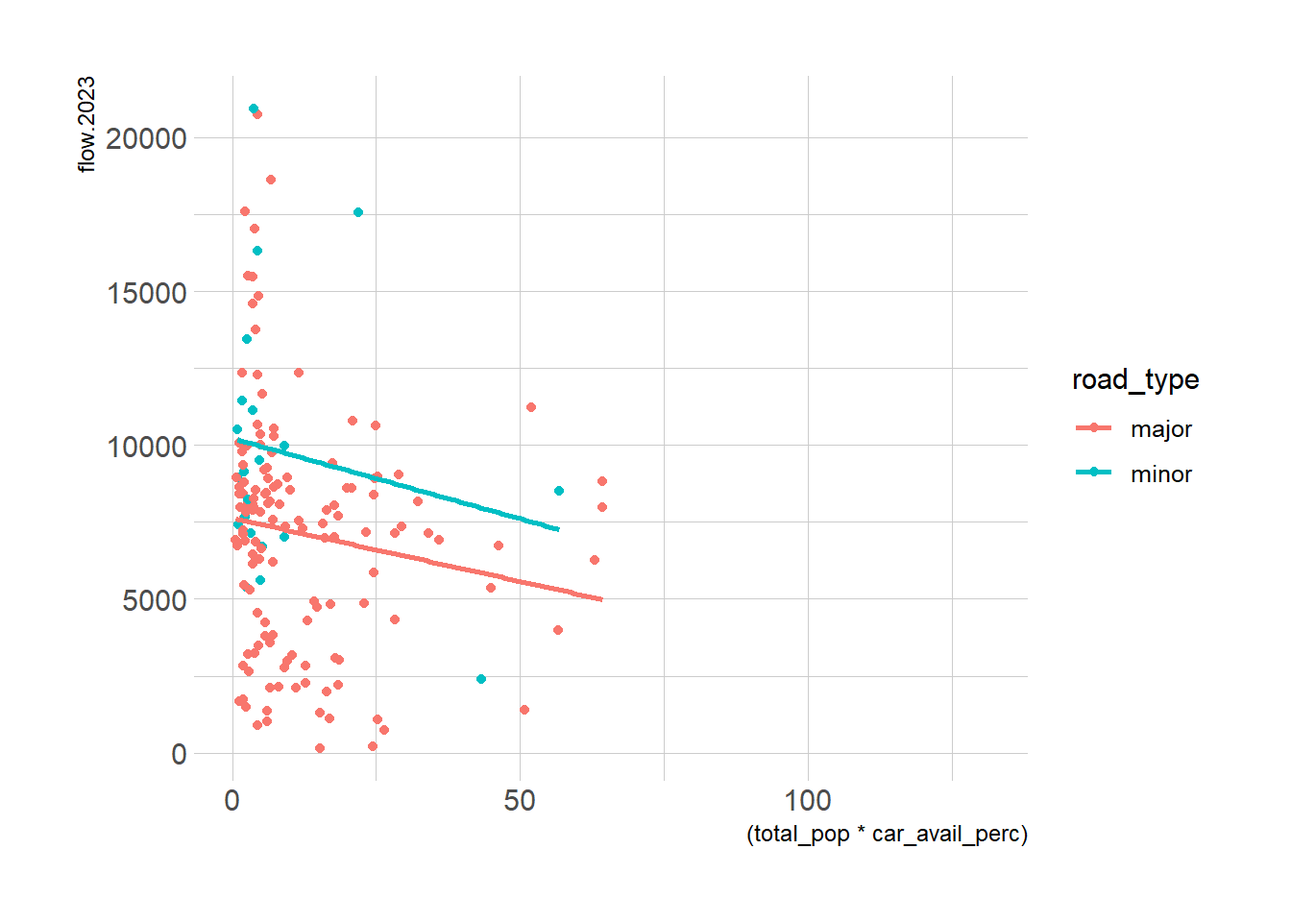
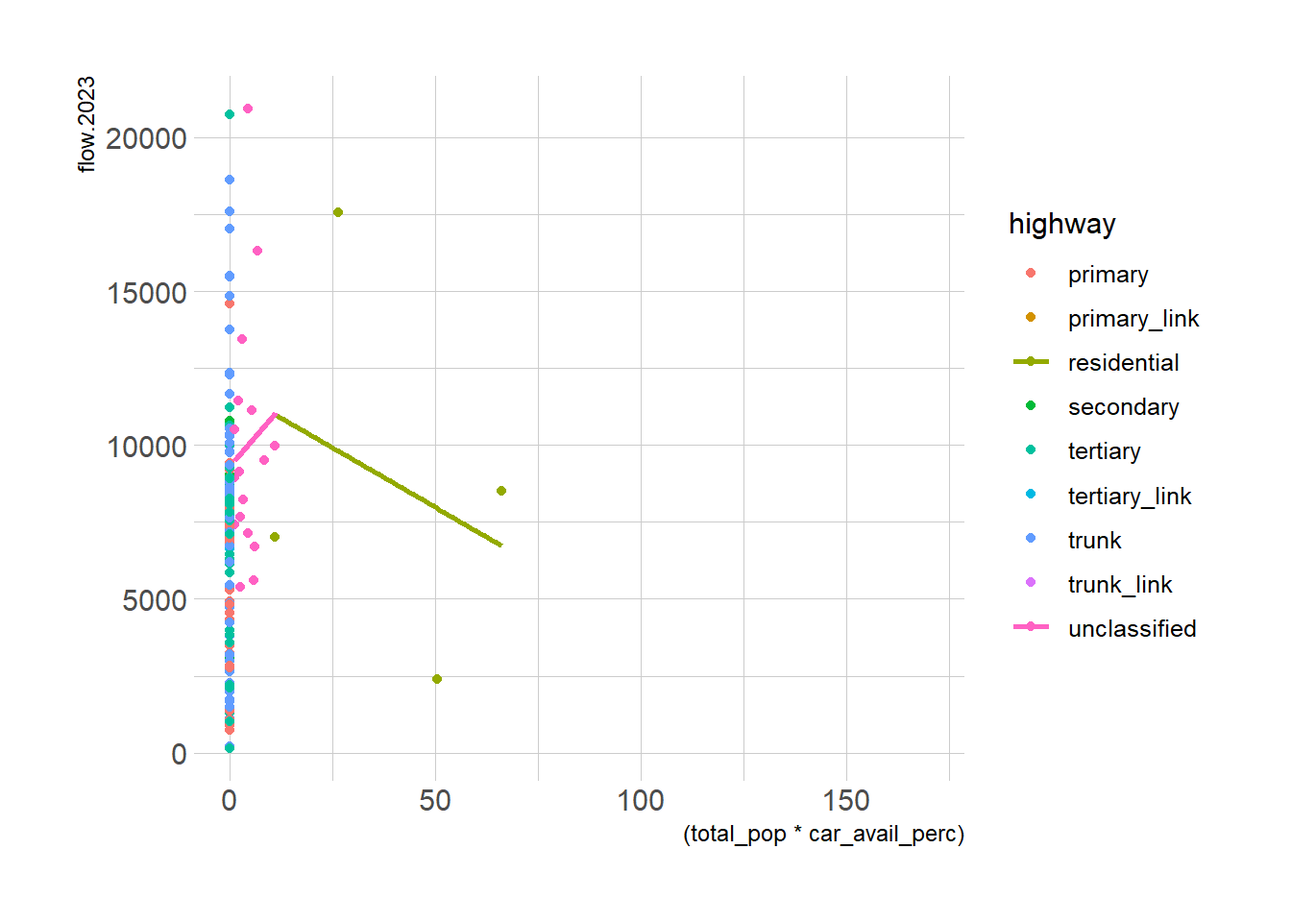
Built site for gh-pages

diff --git a/1D_EDA.html b/1D_EDA.html
@@ -496,7 +496,7 @@ Projected CRS: OSGB36 / British National Grid</code></pre>
 <p>Centrality vs Flows</p>
 <div class="cell">
 <div class="sourceCode cell-code" id="cb16"><pre class="sourceCode r code-with-copy"><code class="sourceCode r"><span id="cb16-1"><a href="#cb16-1" aria-hidden="true" tabindex="-1"></a>model_data <span class="sc">|&gt;</span> </span>
-<span id="cb16-2"><a href="#cb16-2" aria-hidden="true" tabindex="-1"></a>  <span class="fu">ggplot</span>(<span class="fu">aes</span>(<span class="at">x=</span>std.centrality,<span class="at">y=</span>flow<span class="fl">.2023</span>,<span class="at">col=</span>road_type))<span class="sc">+</span></span>
+<span id="cb16-2"><a href="#cb16-2" aria-hidden="true" tabindex="-1"></a>  <span class="fu">ggplot</span>(<span class="fu">aes</span>(<span class="at">x=</span>std.centrality,<span class="at">y=</span>flow<span class="fl">.2023</span>,<span class="at">col=</span>highway))<span class="sc">+</span></span>
 <span id="cb16-3"><a href="#cb16-3" aria-hidden="true" tabindex="-1"></a>  <span class="fu">geom_point</span>()<span class="sc">+</span></span>
 <span id="cb16-4"><a href="#cb16-4" aria-hidden="true" tabindex="-1"></a>  <span class="fu">geom_smooth</span>(<span class="at">method =</span> <span class="st">"lm"</span>,<span class="at">se =</span> F)<span class="sc">+</span></span>
 <span id="cb16-5"><a href="#cb16-5" aria-hidden="true" tabindex="-1"></a>  <span class="fu">theme_ipsum_rc</span>()</span></code><button title="Copy to Clipboard" class="code-copy-button"><i class="bi"></i></button></pre></div>
@@ -550,7 +550,7 @@ font family not found in Windows font database</code></pre>
 <div class="sourceCode cell-code" id="cb23"><pre class="sourceCode r code-with-copy"><code class="sourceCode r"><span id="cb23-1"><a href="#cb23-1" aria-hidden="true" tabindex="-1"></a>model_data <span class="sc">|&gt;</span> </span>
 <span id="cb23-2"><a href="#cb23-2" aria-hidden="true" tabindex="-1"></a>  <span class="fu">ggplot</span>(<span class="fu">aes</span>(<span class="at">x=</span>(total_pop<span class="sc">*</span>car_avail_perc),</span>
 <span id="cb23-3"><a href="#cb23-3" aria-hidden="true" tabindex="-1"></a>             <span class="at">y=</span>flow<span class="fl">.2023</span>,</span>
-<span id="cb23-4"><a href="#cb23-4" aria-hidden="true" tabindex="-1"></a>             <span class="at">col=</span>road_type))<span class="sc">+</span></span>
+<span id="cb23-4"><a href="#cb23-4" aria-hidden="true" tabindex="-1"></a>             <span class="at">col=</span>highway))<span class="sc">+</span></span>
 <span id="cb23-5"><a href="#cb23-5" aria-hidden="true" tabindex="-1"></a>  <span class="fu">geom_point</span>()<span class="sc">+</span></span>
 <span id="cb23-6"><a href="#cb23-6" aria-hidden="true" tabindex="-1"></a>  <span class="fu">geom_smooth</span>(<span class="at">method =</span> <span class="st">"lm"</span>,<span class="at">se =</span> F)<span class="sc">+</span></span>
 <span id="cb23-7"><a href="#cb23-7" aria-hidden="true" tabindex="-1"></a>  <span class="fu">theme_ipsum_rc</span>()</span></code><button title="Copy to Clipboard" class="code-copy-button"><i class="bi"></i></button></pre></div>
@@ -600,7 +600,7 @@ font family not found in Windows font database</code></pre>
 <div class="sourceCode cell-code" id="cb29"><pre class="sourceCode r code-with-copy"><code class="sourceCode r"><span id="cb29-1"><a href="#cb29-1" aria-hidden="true" tabindex="-1"></a>model_data <span class="sc">|&gt;</span> </span>
 <span id="cb29-2"><a href="#cb29-2" aria-hidden="true" tabindex="-1"></a>  <span class="fu">ggplot</span>(<span class="fu">aes</span>(<span class="at">x=</span>(total_emp_pop<span class="sc">*</span>car_avail_perc),</span>
 <span id="cb29-3"><a href="#cb29-3" aria-hidden="true" tabindex="-1"></a>             <span class="at">y=</span>flow<span class="fl">.2023</span>,</span>
-<span id="cb29-4"><a href="#cb29-4" aria-hidden="true" tabindex="-1"></a>             <span class="at">col=</span>road_type))<span class="sc">+</span></span>
+<span id="cb29-4"><a href="#cb29-4" aria-hidden="true" tabindex="-1"></a>             <span class="at">col=</span>highway))<span class="sc">+</span></span>
 <span id="cb29-5"><a href="#cb29-5" aria-hidden="true" tabindex="-1"></a>  <span class="fu">geom_point</span>()<span class="sc">+</span></span>
 <span id="cb29-6"><a href="#cb29-6" aria-hidden="true" tabindex="-1"></a>  <span class="fu">geom_smooth</span>(<span class="at">method =</span> <span class="st">"lm"</span>,<span class="at">se =</span> F)<span class="sc">+</span></span>
 <span id="cb29-7"><a href="#cb29-7" aria-hidden="true" tabindex="-1"></a>  <span class="fu">theme_ipsum_rc</span>()</span></code><button title="Copy to Clipboard" class="code-copy-button"><i class="bi"></i></button></pre></div>
@@ -656,10 +656,14 @@ font family not found in Windows font database</code></pre>
 <span id="cb35-7"><a href="#cb35-7" aria-hidden="true" tabindex="-1"></a>  <span class="fu">geom_smooth</span>(<span class="at">method =</span> <span class="st">"lm"</span>,<span class="at">se =</span> F)<span class="sc">+</span></span>
 <span id="cb35-8"><a href="#cb35-8" aria-hidden="true" tabindex="-1"></a>  <span class="fu">theme_ipsum_rc</span>()</span></code><button title="Copy to Clipboard" class="code-copy-button"><i class="bi"></i></button></pre></div>
 <div class="cell-output cell-output-stderr">
+<pre><code>Warning in scale_x_log10(): log-10 transformation introduced infinite values.
+log-10 transformation introduced infinite values.</code></pre>
+</div>
+<div class="cell-output cell-output-stderr">
 <pre><code>`geom_smooth()` using formula = 'y ~ x'</code></pre>
 </div>
 <div class="cell-output cell-output-stderr">
-<pre><code>Warning: Removed 14918 rows containing non-finite outside the scale range
+<pre><code>Warning: Removed 15055 rows containing non-finite outside the scale range
 (`stat_smooth()`).</code></pre>
 </div>
 <div class="cell-output cell-output-stderr">
@@ -701,9 +705,9 @@ font family not found in Windows font database</code></pre>
 <h3 class="anchored" data-anchor-id="catchment-of-each-node">Catchment of each node</h3>
 <p>Alternatively, population and jobs serviced can be used as as per Selby 2011. Using population and jobs served within specific distances. For this purpose, the catchmets are loaded</p>
 <div class="cell">
-<div class="sourceCode cell-code" id="cb41"><pre class="sourceCode r code-with-copy"><code class="sourceCode r"><span id="cb41-1"><a href="#cb41-1" aria-hidden="true" tabindex="-1"></a>isochrones <span class="ot">&lt;-</span> <span class="fu">read_csv</span>(<span class="st">"03_preprocessing_files/junctions_catchment.csv"</span>)</span></code><button title="Copy to Clipboard" class="code-copy-button"><i class="bi"></i></button></pre></div>
+<div class="sourceCode cell-code" id="cb42"><pre class="sourceCode r code-with-copy"><code class="sourceCode r"><span id="cb42-1"><a href="#cb42-1" aria-hidden="true" tabindex="-1"></a>isochrones <span class="ot">&lt;-</span> <span class="fu">read_csv</span>(<span class="st">"03_preprocessing_files/junctions_catchment.csv"</span>)</span></code><button title="Copy to Clipboard" class="code-copy-button"><i class="bi"></i></button></pre></div>
 <div class="cell-output cell-output-stderr">
-<pre><code>Rows: 4886751 Columns: 5
+<pre><code>Rows: 4886490 Columns: 5
 ── Column specification ────────────────────────────────────────────────────────
 Delimiter: ","
 dbl (5): from, tlim, id, x, y
@@ -714,41 +718,41 @@ dbl (5): from, tlim, id, x, y
 </div>
 <p>This iterates through all origin nodes and calculates the total population and jobs for each time band</p>
 <div class="cell">
-<div class="sourceCode cell-code" id="cb43"><pre class="sourceCode r code-with-copy"><code class="sourceCode r"><span id="cb43-1"><a href="#cb43-1" aria-hidden="true" tabindex="-1"></a>consolidated_catchment <span class="ot">&lt;-</span> isochrones <span class="sc">|&gt;</span></span>
-<span id="cb43-2"><a href="#cb43-2" aria-hidden="true" tabindex="-1"></a>  <span class="fu">mutate</span>(<span class="at">id =</span> <span class="fu">as.character</span>(id)) <span class="sc">|&gt;</span> </span>
-<span id="cb43-3"><a href="#cb43-3" aria-hidden="true" tabindex="-1"></a>  <span class="fu">left_join</span>(model_data <span class="sc">|&gt;</span></span>
-<span id="cb43-4"><a href="#cb43-4" aria-hidden="true" tabindex="-1"></a>              <span class="fu">select</span>(to_id, total_pop, total_emp_pop, wk_pop),</span>
-<span id="cb43-5"><a href="#cb43-5" aria-hidden="true" tabindex="-1"></a>            <span class="at">by=</span><span class="fu">c</span>(<span class="st">"id"</span><span class="ot">=</span><span class="st">"to_id"</span>),</span>
-<span id="cb43-6"><a href="#cb43-6" aria-hidden="true" tabindex="-1"></a>            <span class="at">relationship =</span> <span class="st">"many-to-many"</span>) <span class="sc">|&gt;</span> </span>
-<span id="cb43-7"><a href="#cb43-7" aria-hidden="true" tabindex="-1"></a>  <span class="fu">summarise</span>(<span class="fu">across</span>(<span class="fu">ends_with</span>(<span class="st">"pop"</span>),</span>
-<span id="cb43-8"><a href="#cb43-8" aria-hidden="true" tabindex="-1"></a>                   \(x) <span class="fu">sum</span>(x,<span class="at">na.rm =</span> T)),</span>
-<span id="cb43-9"><a href="#cb43-9" aria-hidden="true" tabindex="-1"></a>            <span class="at">.by =</span> <span class="fu">c</span>(from,tlim)) <span class="sc">|&gt;</span></span>
-<span id="cb43-10"><a href="#cb43-10" aria-hidden="true" tabindex="-1"></a>  <span class="fu">right_join</span>(isochrones <span class="sc">|&gt;</span> </span>
-<span id="cb43-11"><a href="#cb43-11" aria-hidden="true" tabindex="-1"></a>                 <span class="fu">expand</span>(from,tlim),</span>
-<span id="cb43-12"><a href="#cb43-12" aria-hidden="true" tabindex="-1"></a>             <span class="at">by =</span> <span class="fu">c</span>(<span class="st">"from"</span>,<span class="st">"tlim"</span>)) <span class="sc">|&gt;</span> </span>
-<span id="cb43-13"><a href="#cb43-13" aria-hidden="true" tabindex="-1"></a>  <span class="fu">arrange</span>(from,tlim) <span class="sc">|&gt;</span> </span>
-<span id="cb43-14"><a href="#cb43-14" aria-hidden="true" tabindex="-1"></a>  <span class="fu">mutate</span>(<span class="fu">across</span>(<span class="fu">ends_with</span>(<span class="st">"pop"</span>),</span>
-<span id="cb43-15"><a href="#cb43-15" aria-hidden="true" tabindex="-1"></a>                   \(x) <span class="fu">if_else</span>(<span class="fu">is.na</span>(x),<span class="dv">0</span>,x)),</span>
-<span id="cb43-16"><a href="#cb43-16" aria-hidden="true" tabindex="-1"></a>         <span class="fu">across</span>(<span class="fu">ends_with</span>(<span class="st">"pop"</span>),</span>
-<span id="cb43-17"><a href="#cb43-17" aria-hidden="true" tabindex="-1"></a>                   <span class="fu">list</span>(<span class="at">c =</span> \(x) <span class="fu">cumsum</span>(x))),</span>
-<span id="cb43-18"><a href="#cb43-18" aria-hidden="true" tabindex="-1"></a>            <span class="at">.by =</span> from) <span class="sc">|&gt;</span> </span>
-<span id="cb43-19"><a href="#cb43-19" aria-hidden="true" tabindex="-1"></a>  <span class="fu">select</span>(from,tlim,<span class="fu">ends_with</span>(<span class="st">"c"</span>)) <span class="sc">|&gt;</span> </span>
-<span id="cb43-20"><a href="#cb43-20" aria-hidden="true" tabindex="-1"></a>  <span class="fu">pivot_wider</span>(<span class="at">names_from =</span> tlim,<span class="at">values_from =</span> total_pop_c<span class="sc">:</span>wk_pop_c) <span class="sc">|&gt;</span> </span>
-<span id="cb43-21"><a href="#cb43-21" aria-hidden="true" tabindex="-1"></a>  <span class="fu">mutate</span>(<span class="at">from =</span> <span class="fu">as.character</span>(from))</span></code><button title="Copy to Clipboard" class="code-copy-button"><i class="bi"></i></button></pre></div>
+<div class="sourceCode cell-code" id="cb44"><pre class="sourceCode r code-with-copy"><code class="sourceCode r"><span id="cb44-1"><a href="#cb44-1" aria-hidden="true" tabindex="-1"></a>consolidated_catchment <span class="ot">&lt;-</span> isochrones <span class="sc">|&gt;</span></span>
+<span id="cb44-2"><a href="#cb44-2" aria-hidden="true" tabindex="-1"></a>  <span class="fu">mutate</span>(<span class="at">id =</span> <span class="fu">as.character</span>(id)) <span class="sc">|&gt;</span> </span>
+<span id="cb44-3"><a href="#cb44-3" aria-hidden="true" tabindex="-1"></a>  <span class="fu">left_join</span>(model_data <span class="sc">|&gt;</span></span>
+<span id="cb44-4"><a href="#cb44-4" aria-hidden="true" tabindex="-1"></a>              <span class="fu">select</span>(to_id, total_pop, total_emp_pop, wk_pop),</span>
+<span id="cb44-5"><a href="#cb44-5" aria-hidden="true" tabindex="-1"></a>            <span class="at">by=</span><span class="fu">c</span>(<span class="st">"id"</span><span class="ot">=</span><span class="st">"to_id"</span>),</span>
+<span id="cb44-6"><a href="#cb44-6" aria-hidden="true" tabindex="-1"></a>            <span class="at">relationship =</span> <span class="st">"many-to-many"</span>) <span class="sc">|&gt;</span> </span>
+<span id="cb44-7"><a href="#cb44-7" aria-hidden="true" tabindex="-1"></a>  <span class="fu">summarise</span>(<span class="fu">across</span>(<span class="fu">ends_with</span>(<span class="st">"pop"</span>),</span>
+<span id="cb44-8"><a href="#cb44-8" aria-hidden="true" tabindex="-1"></a>                   \(x) <span class="fu">sum</span>(x,<span class="at">na.rm =</span> T)),</span>
+<span id="cb44-9"><a href="#cb44-9" aria-hidden="true" tabindex="-1"></a>            <span class="at">.by =</span> <span class="fu">c</span>(from,tlim)) <span class="sc">|&gt;</span></span>
+<span id="cb44-10"><a href="#cb44-10" aria-hidden="true" tabindex="-1"></a>  <span class="fu">right_join</span>(isochrones <span class="sc">|&gt;</span> </span>
+<span id="cb44-11"><a href="#cb44-11" aria-hidden="true" tabindex="-1"></a>                 <span class="fu">expand</span>(from,tlim),</span>
+<span id="cb44-12"><a href="#cb44-12" aria-hidden="true" tabindex="-1"></a>             <span class="at">by =</span> <span class="fu">c</span>(<span class="st">"from"</span>,<span class="st">"tlim"</span>)) <span class="sc">|&gt;</span> </span>
+<span id="cb44-13"><a href="#cb44-13" aria-hidden="true" tabindex="-1"></a>  <span class="fu">arrange</span>(from,tlim) <span class="sc">|&gt;</span> </span>
+<span id="cb44-14"><a href="#cb44-14" aria-hidden="true" tabindex="-1"></a>  <span class="fu">mutate</span>(<span class="fu">across</span>(<span class="fu">ends_with</span>(<span class="st">"pop"</span>),</span>
+<span id="cb44-15"><a href="#cb44-15" aria-hidden="true" tabindex="-1"></a>                   \(x) <span class="fu">if_else</span>(<span class="fu">is.na</span>(x),<span class="dv">0</span>,x)),</span>
+<span id="cb44-16"><a href="#cb44-16" aria-hidden="true" tabindex="-1"></a>         <span class="fu">across</span>(<span class="fu">ends_with</span>(<span class="st">"pop"</span>),</span>
+<span id="cb44-17"><a href="#cb44-17" aria-hidden="true" tabindex="-1"></a>                   <span class="fu">list</span>(<span class="at">c =</span> \(x) <span class="fu">cumsum</span>(x))),</span>
+<span id="cb44-18"><a href="#cb44-18" aria-hidden="true" tabindex="-1"></a>            <span class="at">.by =</span> from) <span class="sc">|&gt;</span> </span>
+<span id="cb44-19"><a href="#cb44-19" aria-hidden="true" tabindex="-1"></a>  <span class="fu">select</span>(from,tlim,<span class="fu">ends_with</span>(<span class="st">"c"</span>)) <span class="sc">|&gt;</span> </span>
+<span id="cb44-20"><a href="#cb44-20" aria-hidden="true" tabindex="-1"></a>  <span class="fu">pivot_wider</span>(<span class="at">names_from =</span> tlim,<span class="at">values_from =</span> total_pop_c<span class="sc">:</span>wk_pop_c) <span class="sc">|&gt;</span> </span>
+<span id="cb44-21"><a href="#cb44-21" aria-hidden="true" tabindex="-1"></a>  <span class="fu">mutate</span>(<span class="at">from =</span> <span class="fu">as.character</span>(from))</span></code><button title="Copy to Clipboard" class="code-copy-button"><i class="bi"></i></button></pre></div>
 </div>
 <p>Catchment of residents within 2 minutes</p>
 <div class="cell">
-<div class="sourceCode cell-code" id="cb44"><pre class="sourceCode r code-with-copy"><code class="sourceCode r"><span id="cb44-1"><a href="#cb44-1" aria-hidden="true" tabindex="-1"></a><span class="fu">tmap_mode</span>(<span class="st">"plot"</span>)</span></code><button title="Copy to Clipboard" class="code-copy-button"><i class="bi"></i></button></pre></div>
+<div class="sourceCode cell-code" id="cb45"><pre class="sourceCode r code-with-copy"><code class="sourceCode r"><span id="cb45-1"><a href="#cb45-1" aria-hidden="true" tabindex="-1"></a><span class="fu">tmap_mode</span>(<span class="st">"plot"</span>)</span></code><button title="Copy to Clipboard" class="code-copy-button"><i class="bi"></i></button></pre></div>
 <div class="cell-output cell-output-stderr">
 <pre><code>tmap mode set to plotting</code></pre>
 </div>
-<div class="sourceCode cell-code" id="cb46"><pre class="sourceCode r code-with-copy"><code class="sourceCode r"><span id="cb46-1"><a href="#cb46-1" aria-hidden="true" tabindex="-1"></a><span class="fu">tm_shape</span>(model_data_sf)<span class="sc">+</span></span>
-<span id="cb46-2"><a href="#cb46-2" aria-hidden="true" tabindex="-1"></a>  <span class="fu">tm_lines</span>(<span class="st">"skyblue"</span>,<span class="at">lwd =</span> <span class="fl">0.7</span>)<span class="sc">+</span></span>
-<span id="cb46-3"><a href="#cb46-3" aria-hidden="true" tabindex="-1"></a>  <span class="fu">tm_shape</span>(model_data_sf <span class="sc">|&gt;</span></span>
-<span id="cb46-4"><a href="#cb46-4" aria-hidden="true" tabindex="-1"></a>  <span class="fu">left_join</span>(consolidated_catchment,</span>
-<span id="cb46-5"><a href="#cb46-5" aria-hidden="true" tabindex="-1"></a>            <span class="at">by =</span> <span class="fu">c</span>(<span class="st">"from_id"</span><span class="ot">=</span><span class="st">"from"</span>)) <span class="sc">|&gt;</span> </span>
-<span id="cb46-6"><a href="#cb46-6" aria-hidden="true" tabindex="-1"></a>  <span class="fu">filter</span>(<span class="sc">!</span><span class="fu">is.na</span>(total_pop_c_2)))<span class="sc">+</span></span>
-<span id="cb46-7"><a href="#cb46-7" aria-hidden="true" tabindex="-1"></a>  <span class="fu">tm_lines</span>(<span class="st">"total_pop_c_2"</span>,<span class="at">lwd =</span> <span class="dv">2</span>)</span></code><button title="Copy to Clipboard" class="code-copy-button"><i class="bi"></i></button></pre></div>
+<div class="sourceCode cell-code" id="cb47"><pre class="sourceCode r code-with-copy"><code class="sourceCode r"><span id="cb47-1"><a href="#cb47-1" aria-hidden="true" tabindex="-1"></a><span class="fu">tm_shape</span>(model_data_sf)<span class="sc">+</span></span>
+<span id="cb47-2"><a href="#cb47-2" aria-hidden="true" tabindex="-1"></a>  <span class="fu">tm_lines</span>(<span class="st">"skyblue"</span>,<span class="at">lwd =</span> <span class="fl">0.7</span>)<span class="sc">+</span></span>
+<span id="cb47-3"><a href="#cb47-3" aria-hidden="true" tabindex="-1"></a>  <span class="fu">tm_shape</span>(model_data_sf <span class="sc">|&gt;</span></span>
+<span id="cb47-4"><a href="#cb47-4" aria-hidden="true" tabindex="-1"></a>  <span class="fu">left_join</span>(consolidated_catchment,</span>
+<span id="cb47-5"><a href="#cb47-5" aria-hidden="true" tabindex="-1"></a>            <span class="at">by =</span> <span class="fu">c</span>(<span class="st">"from_id"</span><span class="ot">=</span><span class="st">"from"</span>)) <span class="sc">|&gt;</span> </span>
+<span id="cb47-6"><a href="#cb47-6" aria-hidden="true" tabindex="-1"></a>  <span class="fu">filter</span>(<span class="sc">!</span><span class="fu">is.na</span>(total_pop_c_2)))<span class="sc">+</span></span>
+<span id="cb47-7"><a href="#cb47-7" aria-hidden="true" tabindex="-1"></a>  <span class="fu">tm_lines</span>(<span class="st">"total_pop_c_2"</span>,<span class="at">lwd =</span> <span class="dv">2</span>)</span></code><button title="Copy to Clipboard" class="code-copy-button"><i class="bi"></i></button></pre></div>
 <div class="cell-output-display">
 <div>
 <figure class="figure">
@@ -759,13 +763,13 @@ dbl (5): from, tlim, id, x, y
 </div>
 <p>Catchment of employed residents within 2 minutes</p>
 <div class="cell">
-<div class="sourceCode cell-code" id="cb47"><pre class="sourceCode r code-with-copy"><code class="sourceCode r"><span id="cb47-1"><a href="#cb47-1" aria-hidden="true" tabindex="-1"></a><span class="fu">tm_shape</span>(model_data_sf)<span class="sc">+</span></span>
-<span id="cb47-2"><a href="#cb47-2" aria-hidden="true" tabindex="-1"></a>  <span class="fu">tm_lines</span>(<span class="st">"skyblue"</span>,<span class="at">lwd =</span> <span class="fl">0.7</span>)<span class="sc">+</span></span>
-<span id="cb47-3"><a href="#cb47-3" aria-hidden="true" tabindex="-1"></a>  <span class="fu">tm_shape</span>(model_data_sf <span class="sc">|&gt;</span></span>
-<span id="cb47-4"><a href="#cb47-4" aria-hidden="true" tabindex="-1"></a>  <span class="fu">left_join</span>(consolidated_catchment,</span>
-<span id="cb47-5"><a href="#cb47-5" aria-hidden="true" tabindex="-1"></a>            <span class="at">by =</span> <span class="fu">c</span>(<span class="st">"from_id"</span><span class="ot">=</span><span class="st">"from"</span>)) <span class="sc">|&gt;</span> </span>
-<span id="cb47-6"><a href="#cb47-6" aria-hidden="true" tabindex="-1"></a>  <span class="fu">filter</span>(<span class="sc">!</span><span class="fu">is.na</span>(total_emp_pop_c_2)))<span class="sc">+</span></span>
-<span id="cb47-7"><a href="#cb47-7" aria-hidden="true" tabindex="-1"></a>  <span class="fu">tm_lines</span>(<span class="st">"wk_pop_c_2"</span>,<span class="at">lwd =</span> <span class="dv">2</span>)</span></code><button title="Copy to Clipboard" class="code-copy-button"><i class="bi"></i></button></pre></div>
+<div class="sourceCode cell-code" id="cb48"><pre class="sourceCode r code-with-copy"><code class="sourceCode r"><span id="cb48-1"><a href="#cb48-1" aria-hidden="true" tabindex="-1"></a><span class="fu">tm_shape</span>(model_data_sf)<span class="sc">+</span></span>
+<span id="cb48-2"><a href="#cb48-2" aria-hidden="true" tabindex="-1"></a>  <span class="fu">tm_lines</span>(<span class="st">"skyblue"</span>,<span class="at">lwd =</span> <span class="fl">0.7</span>)<span class="sc">+</span></span>
+<span id="cb48-3"><a href="#cb48-3" aria-hidden="true" tabindex="-1"></a>  <span class="fu">tm_shape</span>(model_data_sf <span class="sc">|&gt;</span></span>
+<span id="cb48-4"><a href="#cb48-4" aria-hidden="true" tabindex="-1"></a>  <span class="fu">left_join</span>(consolidated_catchment,</span>
+<span id="cb48-5"><a href="#cb48-5" aria-hidden="true" tabindex="-1"></a>            <span class="at">by =</span> <span class="fu">c</span>(<span class="st">"from_id"</span><span class="ot">=</span><span class="st">"from"</span>)) <span class="sc">|&gt;</span> </span>
+<span id="cb48-6"><a href="#cb48-6" aria-hidden="true" tabindex="-1"></a>  <span class="fu">filter</span>(<span class="sc">!</span><span class="fu">is.na</span>(total_emp_pop_c_2)))<span class="sc">+</span></span>
+<span id="cb48-7"><a href="#cb48-7" aria-hidden="true" tabindex="-1"></a>  <span class="fu">tm_lines</span>(<span class="st">"total_emp_pop_c_2"</span>,<span class="at">lwd =</span> <span class="dv">2</span>)</span></code><button title="Copy to Clipboard" class="code-copy-button"><i class="bi"></i></button></pre></div>
 <div class="cell-output-display">
 <div>
 <figure class="figure">
@@ -776,13 +780,13 @@ dbl (5): from, tlim, id, x, y
 </div>
 <p>Catchment of usual workplace population</p>
 <div class="cell">
-<div class="sourceCode cell-code" id="cb48"><pre class="sourceCode r code-with-copy"><code class="sourceCode r"><span id="cb48-1"><a href="#cb48-1" aria-hidden="true" tabindex="-1"></a><span class="fu">tm_shape</span>(model_data_sf)<span class="sc">+</span></span>
-<span id="cb48-2"><a href="#cb48-2" aria-hidden="true" tabindex="-1"></a>  <span class="fu">tm_lines</span>(<span class="st">"skyblue"</span>,<span class="at">lwd =</span> <span class="fl">0.7</span>)<span class="sc">+</span></span>
-<span id="cb48-3"><a href="#cb48-3" aria-hidden="true" tabindex="-1"></a>  <span class="fu">tm_shape</span>(model_data_sf <span class="sc">|&gt;</span></span>
-<span id="cb48-4"><a href="#cb48-4" aria-hidden="true" tabindex="-1"></a>  <span class="fu">left_join</span>(consolidated_catchment,</span>
-<span id="cb48-5"><a href="#cb48-5" aria-hidden="true" tabindex="-1"></a>            <span class="at">by =</span> <span class="fu">c</span>(<span class="st">"from_id"</span><span class="ot">=</span><span class="st">"from"</span>)) <span class="sc">|&gt;</span> </span>
-<span id="cb48-6"><a href="#cb48-6" aria-hidden="true" tabindex="-1"></a>  <span class="fu">filter</span>(<span class="sc">!</span><span class="fu">is.na</span>(wk_pop_c_2)))<span class="sc">+</span></span>
-<span id="cb48-7"><a href="#cb48-7" aria-hidden="true" tabindex="-1"></a>  <span class="fu">tm_lines</span>(<span class="st">"wk_pop_c_2"</span>,<span class="at">lwd =</span> <span class="dv">2</span>)</span></code><button title="Copy to Clipboard" class="code-copy-button"><i class="bi"></i></button></pre></div>
+<div class="sourceCode cell-code" id="cb49"><pre class="sourceCode r code-with-copy"><code class="sourceCode r"><span id="cb49-1"><a href="#cb49-1" aria-hidden="true" tabindex="-1"></a><span class="fu">tm_shape</span>(model_data_sf)<span class="sc">+</span></span>
+<span id="cb49-2"><a href="#cb49-2" aria-hidden="true" tabindex="-1"></a>  <span class="fu">tm_lines</span>(<span class="st">"skyblue"</span>,<span class="at">lwd =</span> <span class="fl">0.7</span>)<span class="sc">+</span></span>
+<span id="cb49-3"><a href="#cb49-3" aria-hidden="true" tabindex="-1"></a>  <span class="fu">tm_shape</span>(model_data_sf <span class="sc">|&gt;</span></span>
+<span id="cb49-4"><a href="#cb49-4" aria-hidden="true" tabindex="-1"></a>  <span class="fu">left_join</span>(consolidated_catchment,</span>
+<span id="cb49-5"><a href="#cb49-5" aria-hidden="true" tabindex="-1"></a>            <span class="at">by =</span> <span class="fu">c</span>(<span class="st">"from_id"</span><span class="ot">=</span><span class="st">"from"</span>)) <span class="sc">|&gt;</span> </span>
+<span id="cb49-6"><a href="#cb49-6" aria-hidden="true" tabindex="-1"></a>  <span class="fu">filter</span>(<span class="sc">!</span><span class="fu">is.na</span>(wk_pop_c_2)))<span class="sc">+</span></span>
+<span id="cb49-7"><a href="#cb49-7" aria-hidden="true" tabindex="-1"></a>  <span class="fu">tm_lines</span>(<span class="st">"wk_pop_c_2"</span>,<span class="at">lwd =</span> <span class="dv">2</span>)</span></code><button title="Copy to Clipboard" class="code-copy-button"><i class="bi"></i></button></pre></div>
 <div class="cell-output-display">
 <div>
 <figure class="figure">
@@ -797,29 +801,29 @@ dbl (5): from, tlim, id, x, y
 <h2 class="anchored" data-anchor-id="consolidating-the-dataset-for-model-fitting">Consolidating the dataset for model fitting</h2>
 <p>Joining the catchment to the <code>model_data</code> dataset</p>
 <div class="cell">
-<div class="sourceCode cell-code" id="cb49"><pre class="sourceCode r code-with-copy"><code class="sourceCode r"><span id="cb49-1"><a href="#cb49-1" aria-hidden="true" tabindex="-1"></a>model_data_expanded <span class="ot">&lt;-</span> model_data_sf <span class="sc">|&gt;</span></span>
-<span id="cb49-2"><a href="#cb49-2" aria-hidden="true" tabindex="-1"></a>  <span class="fu">left_join</span>(consolidated_catchment,</span>
-<span id="cb49-3"><a href="#cb49-3" aria-hidden="true" tabindex="-1"></a>            <span class="at">by =</span> <span class="fu">c</span>(<span class="st">"from_id"</span><span class="ot">=</span><span class="st">"from"</span>)) <span class="sc">|&gt;</span></span>
-<span id="cb49-4"><a href="#cb49-4" aria-hidden="true" tabindex="-1"></a>  <span class="fu">select</span>(edge_id,</span>
-<span id="cb49-5"><a href="#cb49-5" aria-hidden="true" tabindex="-1"></a>         flow<span class="fl">.2022</span>,</span>
-<span id="cb49-6"><a href="#cb49-6" aria-hidden="true" tabindex="-1"></a>         flow<span class="fl">.2023</span>,</span>
-<span id="cb49-7"><a href="#cb49-7" aria-hidden="true" tabindex="-1"></a>         centrality,</span>
-<span id="cb49-8"><a href="#cb49-8" aria-hidden="true" tabindex="-1"></a>         car_avail_perc,</span>
-<span id="cb49-9"><a href="#cb49-9" aria-hidden="true" tabindex="-1"></a>         total_pop_c_1<span class="sc">:</span>wk_pop_c_5,</span>
-<span id="cb49-10"><a href="#cb49-10" aria-hidden="true" tabindex="-1"></a>         road_density) <span class="sc">|&gt;</span></span>
-<span id="cb49-11"><a href="#cb49-11" aria-hidden="true" tabindex="-1"></a>  <span class="fu">mutate</span>(<span class="fu">across</span>(<span class="fu">contains</span>(<span class="st">"pop"</span>),\(x) x<span class="sc">/</span><span class="fl">1e3</span>),</span>
-<span id="cb49-12"><a href="#cb49-12" aria-hidden="true" tabindex="-1"></a>         <span class="at">centrality =</span> centrality<span class="sc">/</span><span class="fl">1e6</span>,</span>
-<span id="cb49-13"><a href="#cb49-13" aria-hidden="true" tabindex="-1"></a>         <span class="fu">across</span>(<span class="fu">starts_with</span>(<span class="st">"flow."</span>),\(x) <span class="fu">round</span>(x) <span class="sc">|&gt;</span> <span class="fu">as.integer</span>()))</span></code><button title="Copy to Clipboard" class="code-copy-button"><i class="bi"></i></button></pre></div>
+<div class="sourceCode cell-code" id="cb50"><pre class="sourceCode r code-with-copy"><code class="sourceCode r"><span id="cb50-1"><a href="#cb50-1" aria-hidden="true" tabindex="-1"></a>model_data_expanded <span class="ot">&lt;-</span> model_data_sf <span class="sc">|&gt;</span></span>
+<span id="cb50-2"><a href="#cb50-2" aria-hidden="true" tabindex="-1"></a>  <span class="fu">left_join</span>(consolidated_catchment,</span>
+<span id="cb50-3"><a href="#cb50-3" aria-hidden="true" tabindex="-1"></a>            <span class="at">by =</span> <span class="fu">c</span>(<span class="st">"from_id"</span><span class="ot">=</span><span class="st">"from"</span>)) <span class="sc">|&gt;</span></span>
+<span id="cb50-4"><a href="#cb50-4" aria-hidden="true" tabindex="-1"></a>  <span class="co"># select(edge_id,</span></span>
+<span id="cb50-5"><a href="#cb50-5" aria-hidden="true" tabindex="-1"></a>  <span class="co">#        flow.2022,</span></span>
+<span id="cb50-6"><a href="#cb50-6" aria-hidden="true" tabindex="-1"></a>  <span class="co">#        flow.2023,</span></span>
+<span id="cb50-7"><a href="#cb50-7" aria-hidden="true" tabindex="-1"></a>  <span class="co">#        centrality,</span></span>
+<span id="cb50-8"><a href="#cb50-8" aria-hidden="true" tabindex="-1"></a>  <span class="co">#        car_avail_perc,</span></span>
+<span id="cb50-9"><a href="#cb50-9" aria-hidden="true" tabindex="-1"></a>  <span class="co">#        total_pop_c_1:wk_pop_c_5,</span></span>
+<span id="cb50-10"><a href="#cb50-10" aria-hidden="true" tabindex="-1"></a>  <span class="co">#        road_density) |&gt;</span></span>
+<span id="cb50-11"><a href="#cb50-11" aria-hidden="true" tabindex="-1"></a>  <span class="fu">mutate</span>(<span class="fu">across</span>(<span class="fu">contains</span>(<span class="st">"pop"</span>),\(x) x<span class="sc">/</span><span class="fl">1e3</span>),</span>
+<span id="cb50-12"><a href="#cb50-12" aria-hidden="true" tabindex="-1"></a>         <span class="at">centrality =</span> centrality,</span>
+<span id="cb50-13"><a href="#cb50-13" aria-hidden="true" tabindex="-1"></a>         <span class="fu">across</span>(<span class="fu">starts_with</span>(<span class="st">"flow."</span>),\(x) <span class="fu">round</span>(x) <span class="sc">|&gt;</span> <span class="fu">as.integer</span>()))</span></code><button title="Copy to Clipboard" class="code-copy-button"><i class="bi"></i></button></pre></div>
 </div>
 <section id="exploring-interactions-among-the-variables-in-the-dataset" class="level3">
 <h3 class="anchored" data-anchor-id="exploring-interactions-among-the-variables-in-the-dataset">Exploring interactions among the variables in the dataset</h3>
 <div class="cell">
-<div class="sourceCode cell-code" id="cb50"><pre class="sourceCode r code-with-copy"><code class="sourceCode r"><span id="cb50-1"><a href="#cb50-1" aria-hidden="true" tabindex="-1"></a>model_data_expanded <span class="sc">|&gt;</span></span>
-<span id="cb50-2"><a href="#cb50-2" aria-hidden="true" tabindex="-1"></a>  <span class="fu">st_drop_geometry</span>() <span class="sc">|&gt;</span> </span>
-<span id="cb50-3"><a href="#cb50-3" aria-hidden="true" tabindex="-1"></a>  <span class="fu">select</span>(flow<span class="fl">.2023</span>, centrality, total_pop_c_2,total_emp_pop_c_2, wk_pop_c_2) <span class="sc">|&gt;</span></span>
-<span id="cb50-4"><a href="#cb50-4" aria-hidden="true" tabindex="-1"></a>  <span class="fu">drop_na</span>(flow<span class="fl">.2023</span>, centrality, total_pop_c_2,total_emp_pop_c_2, wk_pop_c_2) <span class="sc">|&gt;</span></span>
-<span id="cb50-5"><a href="#cb50-5" aria-hidden="true" tabindex="-1"></a>  <span class="co"># mutate(across(everything(),log)) |&gt; </span></span>
-<span id="cb50-6"><a href="#cb50-6" aria-hidden="true" tabindex="-1"></a>  GGally<span class="sc">::</span><span class="fu">ggpairs</span>()</span></code><button title="Copy to Clipboard" class="code-copy-button"><i class="bi"></i></button></pre></div>
+<div class="sourceCode cell-code" id="cb51"><pre class="sourceCode r code-with-copy"><code class="sourceCode r"><span id="cb51-1"><a href="#cb51-1" aria-hidden="true" tabindex="-1"></a>model_data_expanded <span class="sc">|&gt;</span></span>
+<span id="cb51-2"><a href="#cb51-2" aria-hidden="true" tabindex="-1"></a>  <span class="fu">st_drop_geometry</span>() <span class="sc">|&gt;</span> </span>
+<span id="cb51-3"><a href="#cb51-3" aria-hidden="true" tabindex="-1"></a>  <span class="fu">select</span>(flow<span class="fl">.2023</span>, std.centrality, total_pop_c_2,total_emp_pop_c_2, wk_pop_c_2) <span class="sc">|&gt;</span></span>
+<span id="cb51-4"><a href="#cb51-4" aria-hidden="true" tabindex="-1"></a>  <span class="fu">drop_na</span>(flow<span class="fl">.2023</span>, std.centrality, total_pop_c_2,total_emp_pop_c_2, wk_pop_c_2) <span class="sc">|&gt;</span></span>
+<span id="cb51-5"><a href="#cb51-5" aria-hidden="true" tabindex="-1"></a>  <span class="co"># mutate(across(everything(),log)) |&gt; </span></span>
+<span id="cb51-6"><a href="#cb51-6" aria-hidden="true" tabindex="-1"></a>  GGally<span class="sc">::</span><span class="fu">ggpairs</span>()</span></code><button title="Copy to Clipboard" class="code-copy-button"><i class="bi"></i></button></pre></div>
 <div class="cell-output cell-output-stderr">
 <pre><code>Registered S3 method overwritten by 'GGally':
   method from   
@@ -838,12 +842,12 @@ dbl (5): from, tlim, id, x, y
 <section id="saving-data" class="level2">
 <h2 class="anchored" data-anchor-id="saving-data">Saving data</h2>
 <div class="cell">
-<div class="sourceCode cell-code" id="cb52"><pre class="sourceCode r code-with-copy"><code class="sourceCode r"><span id="cb52-1"><a href="#cb52-1" aria-hidden="true" tabindex="-1"></a><span class="fu">st_write</span>(model_data_expanded,<span class="st">"03_preprocessing_files/model_data.gpkg"</span>,<span class="at">delete_dsn =</span> T) </span></code><button title="Copy to Clipboard" class="code-copy-button"><i class="bi"></i></button></pre></div>
+<div class="sourceCode cell-code" id="cb53"><pre class="sourceCode r code-with-copy"><code class="sourceCode r"><span id="cb53-1"><a href="#cb53-1" aria-hidden="true" tabindex="-1"></a><span class="fu">st_write</span>(model_data_expanded,<span class="st">"03_preprocessing_files/model_data.gpkg"</span>,<span class="at">delete_dsn =</span> T) </span></code><button title="Copy to Clipboard" class="code-copy-button"><i class="bi"></i></button></pre></div>
 <div class="cell-output cell-output-stdout">
 <pre><code>Deleting source `03_preprocessing_files/model_data.gpkg' using driver `GPKG'
 Writing layer `model_data' to data source 
   `03_preprocessing_files/model_data.gpkg' using driver `GPKG'
-Writing 15076 features with 21 fields and geometry type Line String.</code></pre>
+Writing 15076 features with 54 fields and geometry type Line String.</code></pre>
 </div>
 </div>
 

diff --git a/1C_Road_network.html b/1C_Road_network.html
@@ -662,12 +662,13 @@ Projected CRS: OSGB36 / British National Grid</code></pre>
 <p>It will be assumed that the length of each road will be proportional to the population served in each LSOA, i.e.&nbsp;if there are two roads in an LSOA, one with 750 m and the other with 250 m, their distribution will be assumed as 75% and 25% respectively.</p>
 <div class="cell">
 <div class="sourceCode cell-code" id="cb34"><pre class="sourceCode r code-with-copy"><code class="sourceCode r"><span id="cb34-1"><a href="#cb34-1" aria-hidden="true" tabindex="-1"></a>edge_lsoa <span class="ot">&lt;-</span> graph_sf_flows <span class="sc">|&gt;</span></span>
-<span id="cb34-2"><a href="#cb34-2" aria-hidden="true" tabindex="-1"></a>  <span class="fu">select</span>(edge_id,d) <span class="sc">|&gt;</span></span>
+<span id="cb34-2"><a href="#cb34-2" aria-hidden="true" tabindex="-1"></a>  <span class="fu">select</span>(edge_id,d,road_type) <span class="sc">|&gt;</span></span>
 <span id="cb34-3"><a href="#cb34-3" aria-hidden="true" tabindex="-1"></a>  <span class="fu">st_join</span>(lsoa_data <span class="sc">|&gt;</span> <span class="fu">select</span>(LSOA21CD),</span>
 <span id="cb34-4"><a href="#cb34-4" aria-hidden="true" tabindex="-1"></a>          <span class="at">largest =</span> T) <span class="sc">|&gt;</span></span>
 <span id="cb34-5"><a href="#cb34-5" aria-hidden="true" tabindex="-1"></a>  <span class="fu">st_drop_geometry</span>() <span class="sc">|&gt;</span> </span>
-<span id="cb34-6"><a href="#cb34-6" aria-hidden="true" tabindex="-1"></a>  <span class="fu">mutate</span>(<span class="at">portion_lsoa =</span> d<span class="sc">/</span><span class="fu">sum</span>(d),<span class="at">.by =</span> LSOA21CD) <span class="sc">|&gt;</span> </span>
-<span id="cb34-7"><a href="#cb34-7" aria-hidden="true" tabindex="-1"></a>  <span class="fu">select</span>(<span class="sc">-</span>d)</span></code><button title="Copy to Clipboard" class="code-copy-button"><i class="bi"></i></button></pre></div>
+<span id="cb34-6"><a href="#cb34-6" aria-hidden="true" tabindex="-1"></a>  <span class="fu">mutate</span>(<span class="at">portion_lsoa =</span> d<span class="sc">/</span><span class="fu">sum</span>(d,<span class="at">na.rm =</span> T),<span class="at">.by =</span> <span class="fu">c</span>(LSOA21CD,road_type)) <span class="sc">|&gt;</span> </span>
+<span id="cb34-7"><a href="#cb34-7" aria-hidden="true" tabindex="-1"></a>  <span class="fu">mutate</span>(<span class="at">portion_lsoa =</span> <span class="fu">if_else</span>(road_type<span class="sc">==</span><span class="st">"major"</span> <span class="sc">|</span> <span class="fu">is.na</span>(LSOA21CD),<span class="dv">0</span>,portion_lsoa)) <span class="sc">|&gt;</span> </span>
+<span id="cb34-8"><a href="#cb34-8" aria-hidden="true" tabindex="-1"></a>  <span class="fu">select</span>(<span class="sc">-</span>d,<span class="sc">-</span>road_type)</span></code><button title="Copy to Clipboard" class="code-copy-button"><i class="bi"></i></button></pre></div>
 <div class="cell-output cell-output-stderr">
 <pre><code>Warning: attribute variables are assumed to be spatially constant throughout
 all geometries</code></pre>
